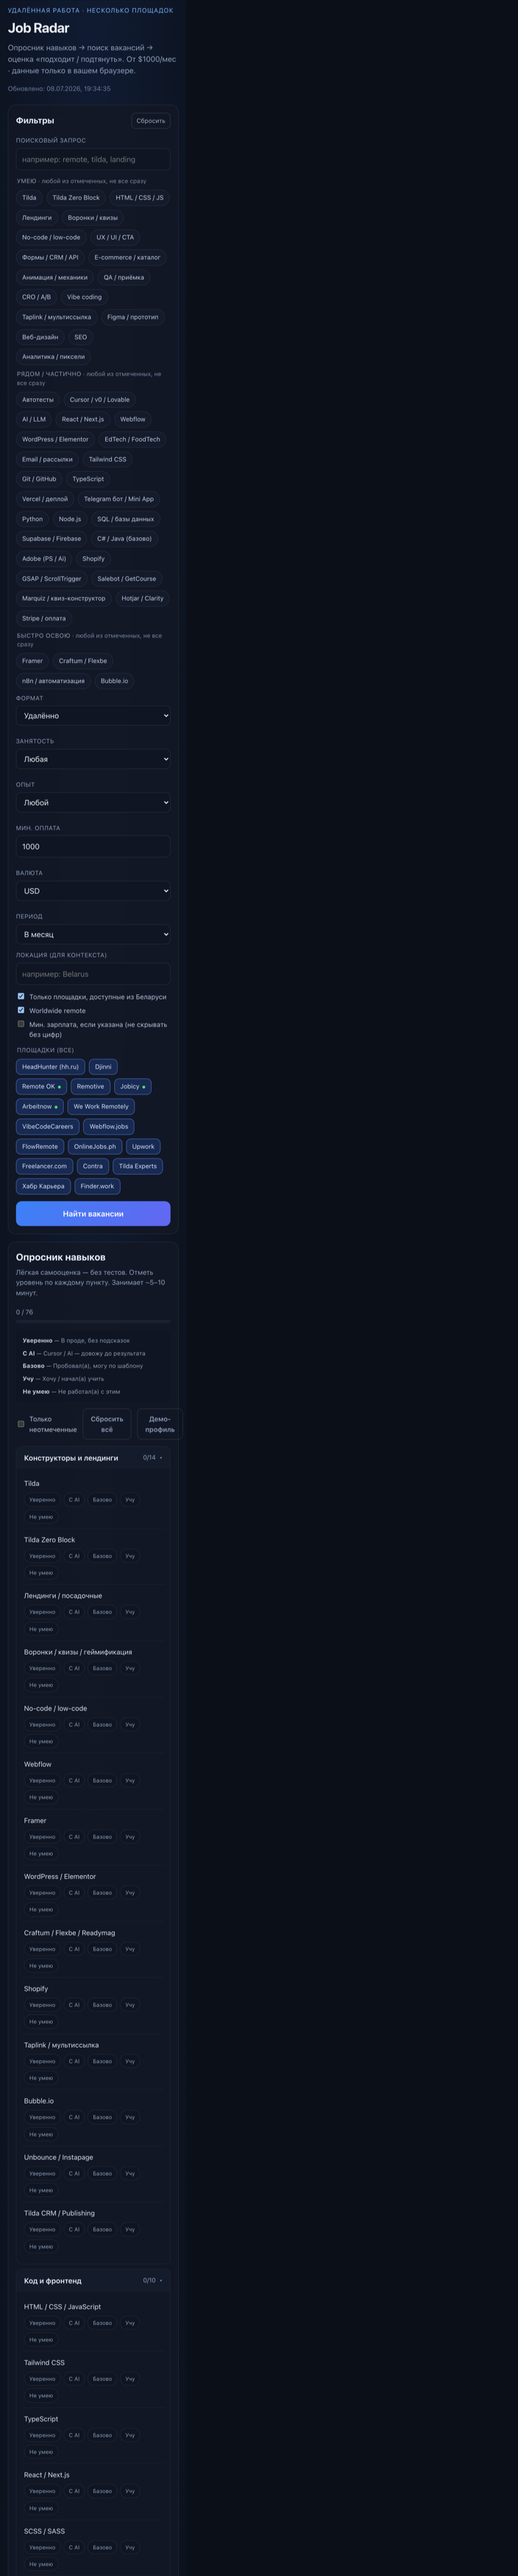
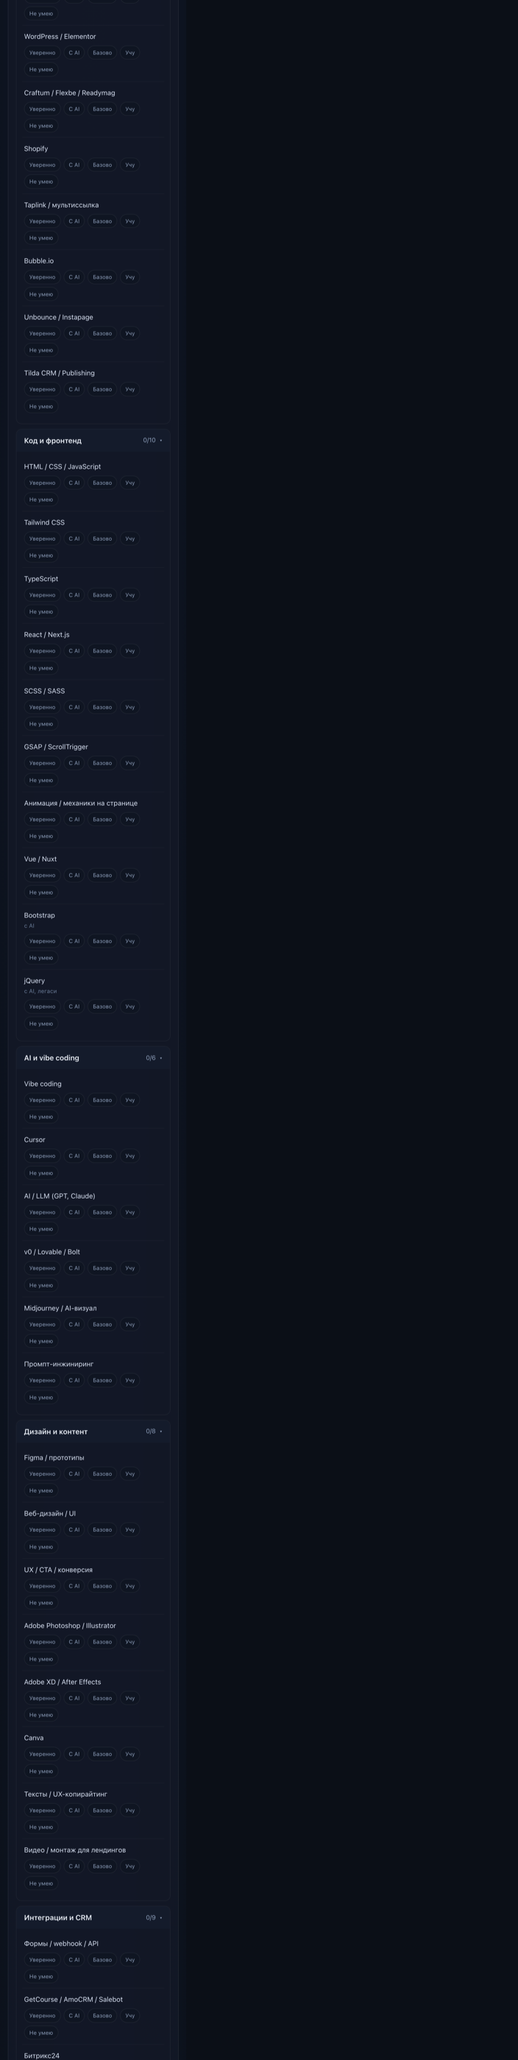
Recrop Job and Still previews so mobile fixes are visible in cards.
Add cache-busting query params so browsers reload updated PNGs.

Changed region(s): [[0.0, 0.0, 0.3438, 1.0], [0.1875, 0.9632, 0.2188, 0.9943]]

diff --git a/src/data/showcases/webApps.ts b/src/data/showcases/webApps.ts
@@ -53,7 +53,7 @@ export const webAppsShowcase: DemoShowcaseConfig = {
       tab: "Job Radar",
       focus: "Вакансии",
       title: "Ресурс для подбора вакансий",
-      previewImage: "/previews/job-radar.png",
+      previewImage: "/previews/job-radar.png?v=20260708b",
       chips: [
         "Опросник навыков → профиль",
         "Матчинг: точно / подтянуть / под вопросом",
@@ -67,7 +67,7 @@ export const webAppsShowcase: DemoShowcaseConfig = {
       tab: "Still",
       focus: "E-commerce",
       title: "Интернет-магазин одежды",
-      previewImage: "/previews/still-store.png",
+      previewImage: "/previews/still-store.png?v=20260708b",
       chips: [
         "Каталог · корзина · checkout · аккаунт",
         "Модалка товара, размеры, количество",

diff --git a/src/data/showcases/vibeProjects.ts b/src/data/showcases/vibeProjects.ts
@@ -44,7 +44,7 @@ export const vibeProjectsShowcase: DemoShowcaseConfig = {
       focus: "Job Radar",
       title: "Опросник → матчинг → отклик",
       visual: "code",
-      previewImage: "/previews/job-radar.png",
+      previewImage: "/previews/job-radar.png?v=20260708b",
       codeTabs: ["Cursor", "matchProfile.ts"],
       codeLines: [
         "// vibe session · без личных данных",
